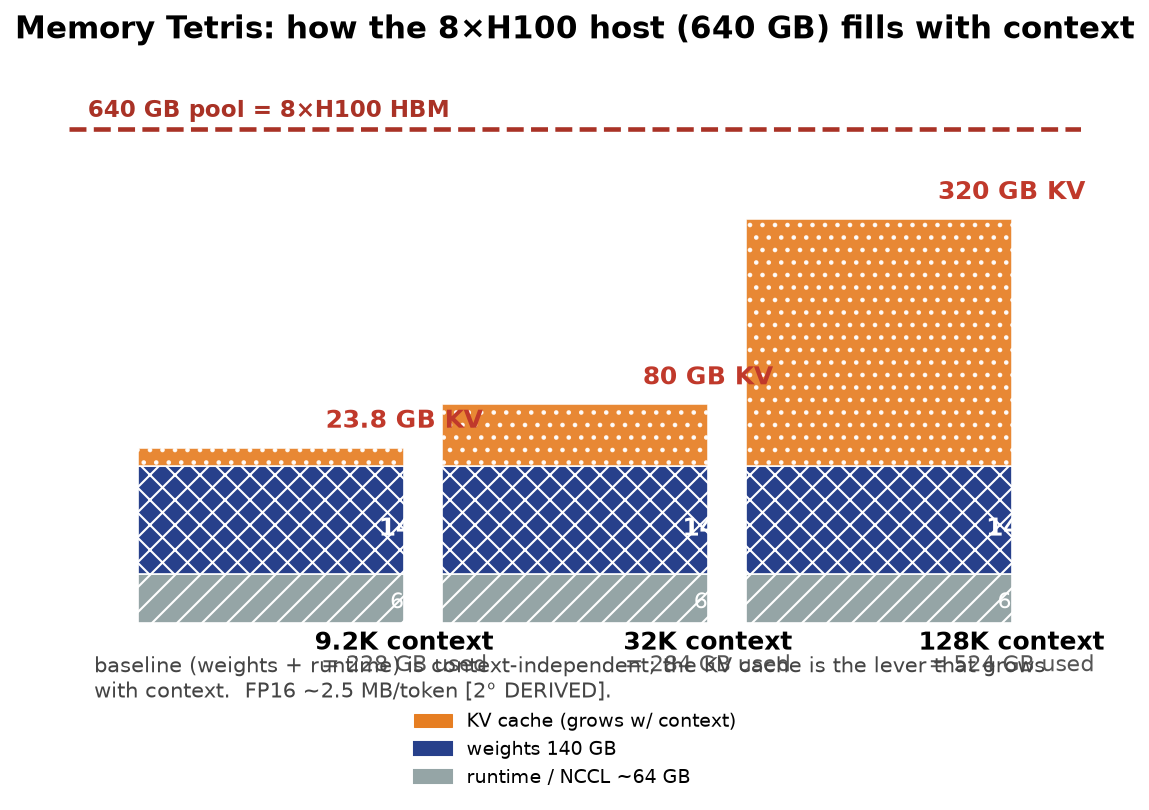
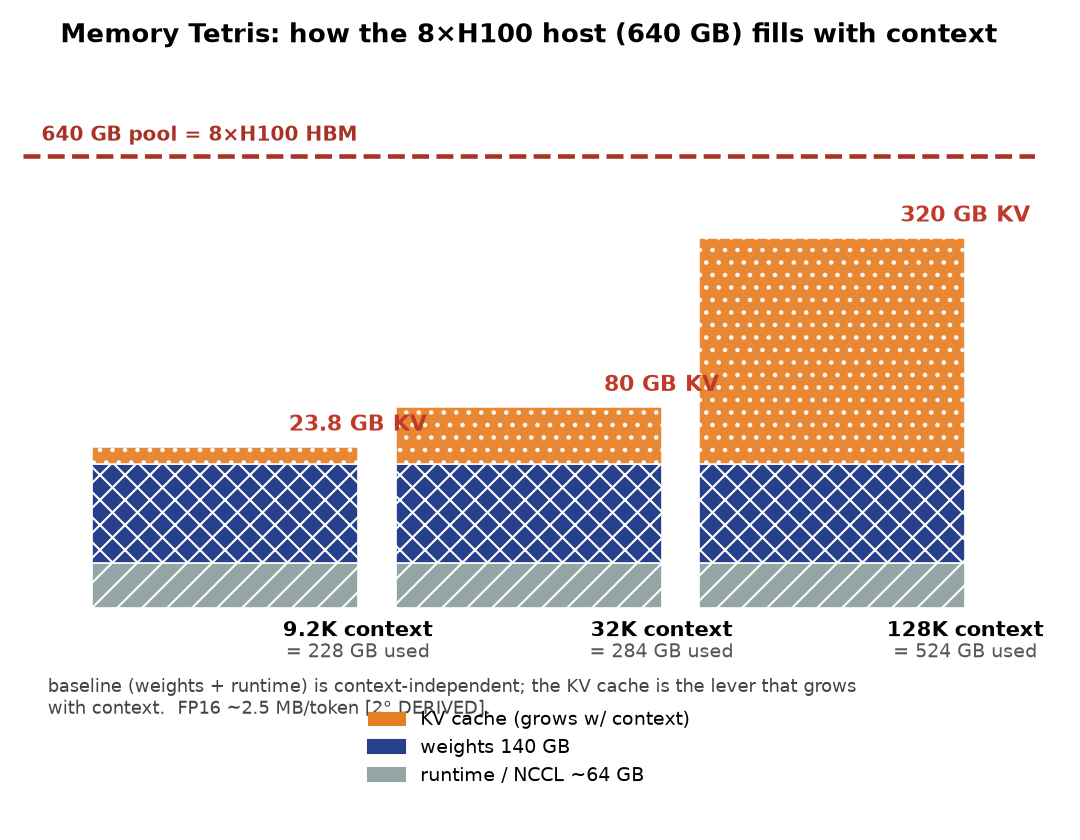
Fix Fig 7.5 Memory Tetris: KV labels above bars, no in-bar collision, caption moved clear

Changed region(s): [[0.0306, 0.1235, 0.9778, 0.9877], [0.0, 0.0, 1.0, 0.0617]]

diff --git a/render/fig_ch7_tetris.py b/render/fig_ch7_tetris.py
@@ -7,8 +7,8 @@ import matplotlib.patches as mpatches
 # Canonical (Ch 7): weights 140 GB, runtime/NCCL ~64 GB, KV FP16 ~2.5 MB/token
 # 9.2K -> ~23.8 GB KV ; 32K -> ~80 GB ; 128K -> ~320 GB
 fig, ax = plt.subplots(figsize=(7.2, 5.6))
-ax.set_xlim(0, 8.0); ax.set_ylim(0, 720)
-ax.axis('off')   # no numeric axes: it's a schematic -> regen tight-crops to content
+ax.set_xlim(0, 8.0); ax.set_ylim(0, 760)
+ax.axis('off')   # schematic; regen tight-crops to content
 ax.set_title('Memory Tetris: how the 8×H100 host (640 GB) fills with context',
              fontsize=12.5, fontweight='bold', pad=14)
 
@@ -17,36 +17,30 @@ ctxs = [('9.2K context', 23.8), ('32K context', 80), ('128K context', 320)]
 xs = [1.6, 4.0, 6.4]
 cols = {'runtime': '#95a5a6', 'weights': '#27408b', 'kv': '#e67e22'}
 
-def val(x, y, s, fs=9, bold=False, c='white'):
-    ax.text(x+bar_w/2, y, s, ha='center', va='center', fontsize=fs, color=c,
-            fontweight='bold' if bold else 'normal', clip_on=False)
-
+# Put each segment's total label ABOVE its bar, outside the fill, so nothing
+# collides with an in-bar value.  Bars carry only a small white value where it
+# fits; the KV value (the one that varies) is always shown above its bar.
 for x, (label, kv) in zip(xs, ctxs):
     ax.bar(x, 64, width=bar_w, bottom=0, color=cols['runtime'], hatch='//', edgecolor='white', linewidth=0.8)
-    val(x, 27, '64', fs=9)
     ax.bar(x, 140, width=bar_w, bottom=64, color=cols['weights'], hatch='xx', edgecolor='white', linewidth=0.8)
-    val(x, 122, '140', fs=10, bold=True)
     ax.bar(x, kv, width=bar_w, bottom=204, color=cols['kv'], hatch='..', edgecolor='white', linewidth=0.8, alpha=0.92)
     total = 204 + kv
-    ax.text(x+bar_w/2, 204+kv+18, f'{kv:.1f}'.rstrip('0').rstrip('.')+' GB KV',
-            ha='center', va='bottom', fontsize=10, color='#c0392b',
-            fontweight='bold', clip_on=False)
-    ax.text(x+bar_w/2, -34, label, ha='center', fontsize=10, fontweight='bold')
-    ax.text(x+bar_w/2, -62, f'= {total:.0f} GB used', ha='center', fontsize=9,
-            color='#555')
+    # KV value above its bar (clip_on=False so it is never cut off)
+    ax.text(x+bar_w/2, 204+kv+16, f'{kv:.1f} GB KV'.replace('.0 GB',' GB'),
+            ha='center', va='bottom', fontsize=10.5, color='#c0392b', fontweight='bold', clip_on=False)
+    # context label + total, below the bar
+    ax.text(x+bar_w/2, -40, label, ha='center', fontsize=10, fontweight='bold')
+    ax.text(x+bar_w/2, -70, f'= {total:.0f} GB used', ha='center', fontsize=9, color='#555')
 
 ax.axhline(640, color='#a93226', lw=2.2, ls='--')
-ax.text(0.15, 656, '640 GB pool = 8×H100 HBM', fontsize=9.5, color='#a93226',
-        fontweight='bold')
+ax.text(0.15, 662, '640 GB pool = 8×H100 HBM', fontsize=9.5, color='#a93226', fontweight='bold')
 
-# legend below the axes (vertical, compact so the figure isn't a wide sliver)
 leg = [mpatches.Patch(color=cols['kv'], hatch='..', edgecolor='white', lw=0.5, label='KV cache (grows w/ context)'),
        mpatches.Patch(color=cols['weights'], label='weights 140 GB'),
        mpatches.Patch(color=cols['runtime'], label='runtime / NCCL ~64 GB')]
-ax.legend(handles=leg, loc='upper center', bbox_to_anchor=(0.5, -0.13),
-          fontsize=9, frameon=False, ncol=1)
+ax.legend(handles=leg, loc='upper center', bbox_to_anchor=(0.5, -0.16), fontsize=9, frameon=False, ncol=1)
 
-ax.text(0.2, -96, 'baseline (weights + runtime) is context-independent; the KV cache is the lever that grows\nwith context.  FP16 ~2.5 MB/token [2° DERIVED].',
+ax.text(0.2, -150, 'baseline (weights + runtime) is context-independent; the KV cache is the lever that grows\nwith context.  FP16 ~2.5 MB/token [2° DERIVED].',
         fontsize=8.5, color='#444')
 
 plt.tight_layout()
